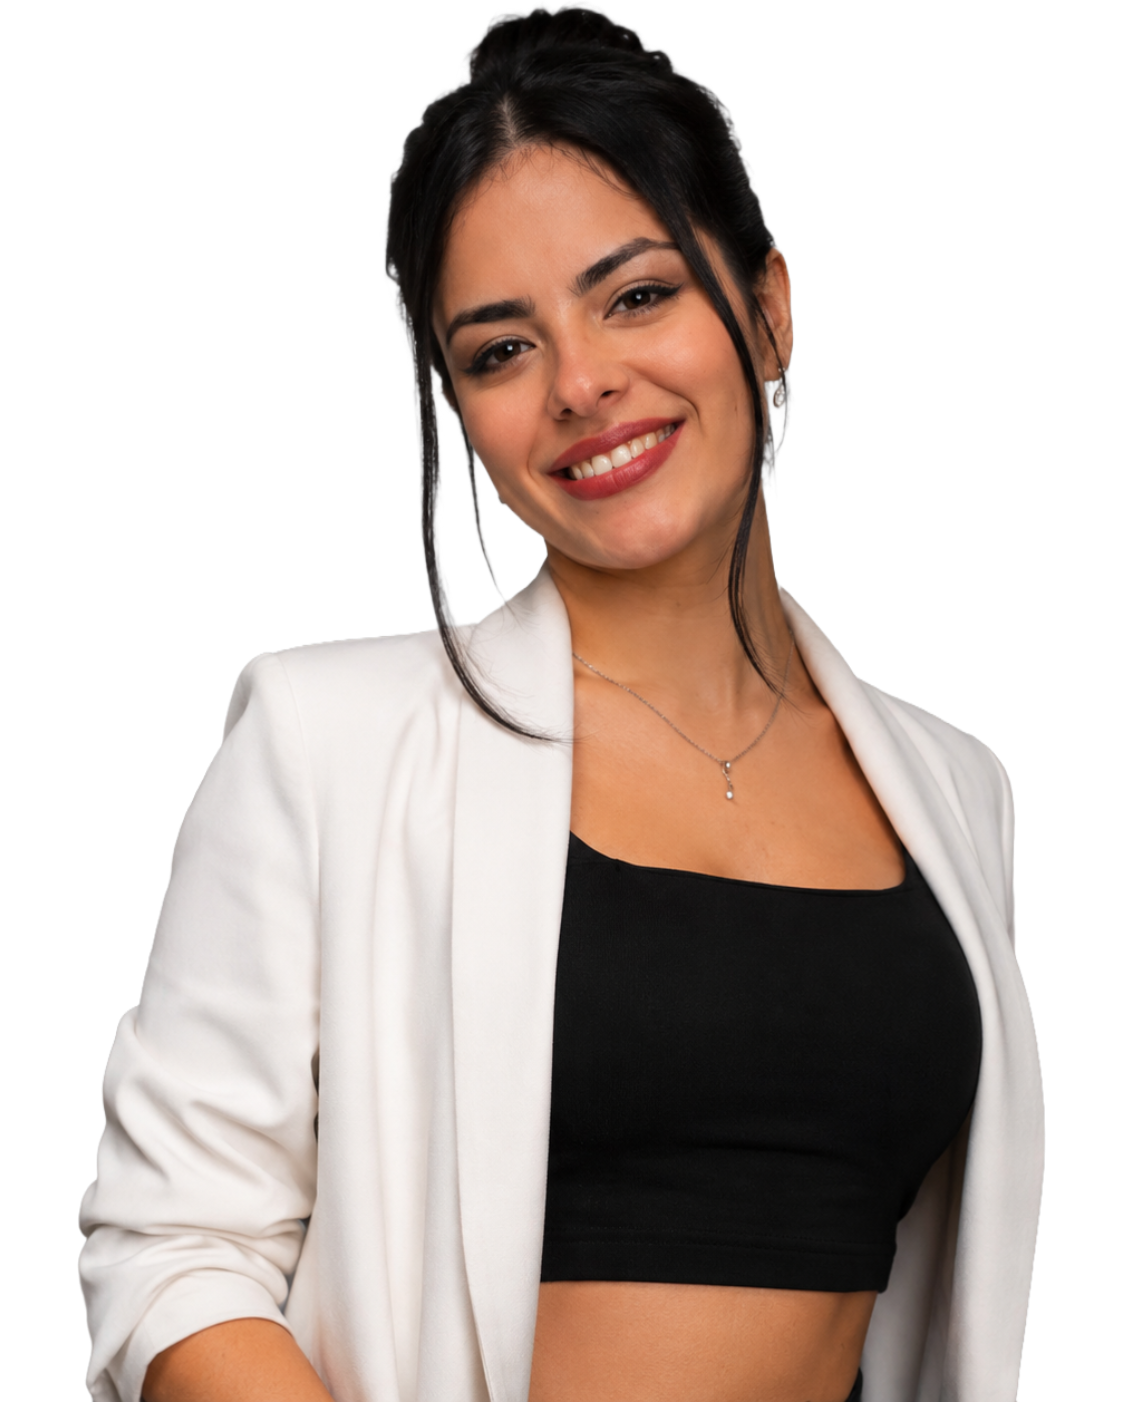
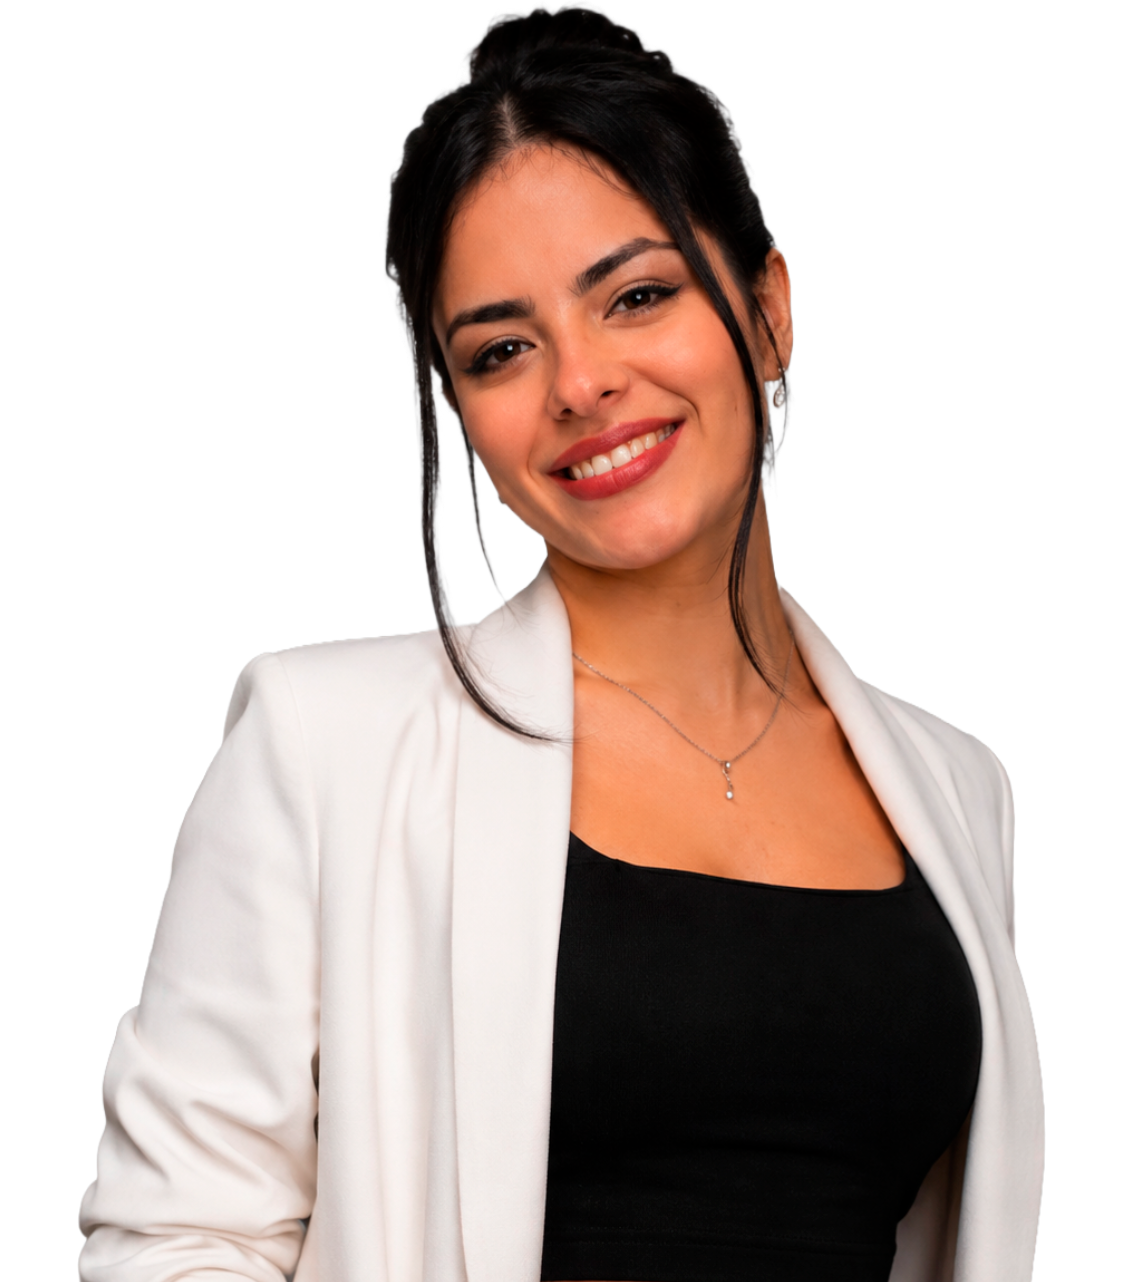
Foto final de Marcela en caja con proporcion fija (no desborda)
- Reemplaza la foto por la version final (Ultima)
- aspect-ratio + object-fit para que nunca se salga de pantalla

diff --git a/estilos.css b/estilos.css
@@ -129,11 +129,14 @@ section.alt { background: var(--azul-deep); }
   gap: 44px;
   align-items: center;
 }
+.quien-texto { min-width: 0; }
 .quien-texto .lead { max-width: none; }
 .quien-foto {
   position: relative;
+  min-width: 0;
   width: 100%;
-  max-width: 360px;
+  max-width: 340px;
+  aspect-ratio: 4 / 5;
   margin-left: auto;
   border-radius: var(--radio);
   overflow: hidden;
@@ -144,8 +147,10 @@ section.alt { background: var(--azul-deep); }
 .quien-foto img {
   display: block;
   width: 100%;
-  height: auto;
-  margin-bottom: -1px; /* evita hueco al fondo del recorte */
+  height: 100%;
+  max-width: 100%;
+  object-fit: cover;
+  object-position: top center;
 }
 
 /* "Leí lo que necesitan": dos columnas de chips */